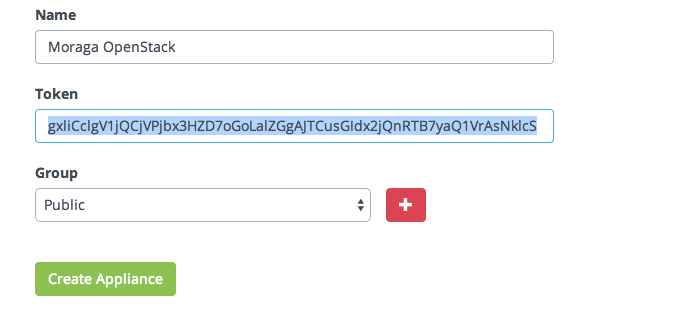
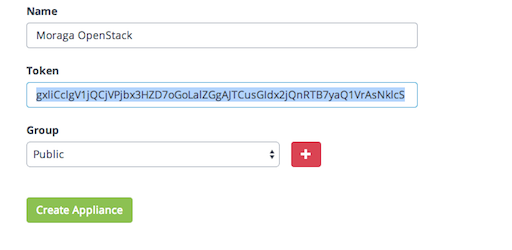
readme images

diff --git a/README.md b/README.md
@@ -181,8 +181,7 @@ Once you've logged into the appliance, click on the **Appliance** tab at the top
 
 Click the **Register API Token** button to register the appliance with the pool.  If you haven't signed up for the **StackMonkey pool** yet, you will be prompted by Google to allow access to your account from the site.  Once you have authenticated with the site, you'll be presented with a new appliance form:
 
-[![Create an admin account.](https://raw.githubusercontent.com/StackMonkey/utter-va/master/webapp/static/img/readme/new_appliance_thumb.png)](https://raw.githubusercontent.com/StackMonkey/utter-va/master/webapp/static/img/readme/new_appliance.png)
-  
+![Create an admin account.](https://raw.githubusercontent.com/StackMonkey/utter-va/master/webapp/static/img/readme/new_appliance.png)  
   
   
 ### Security
